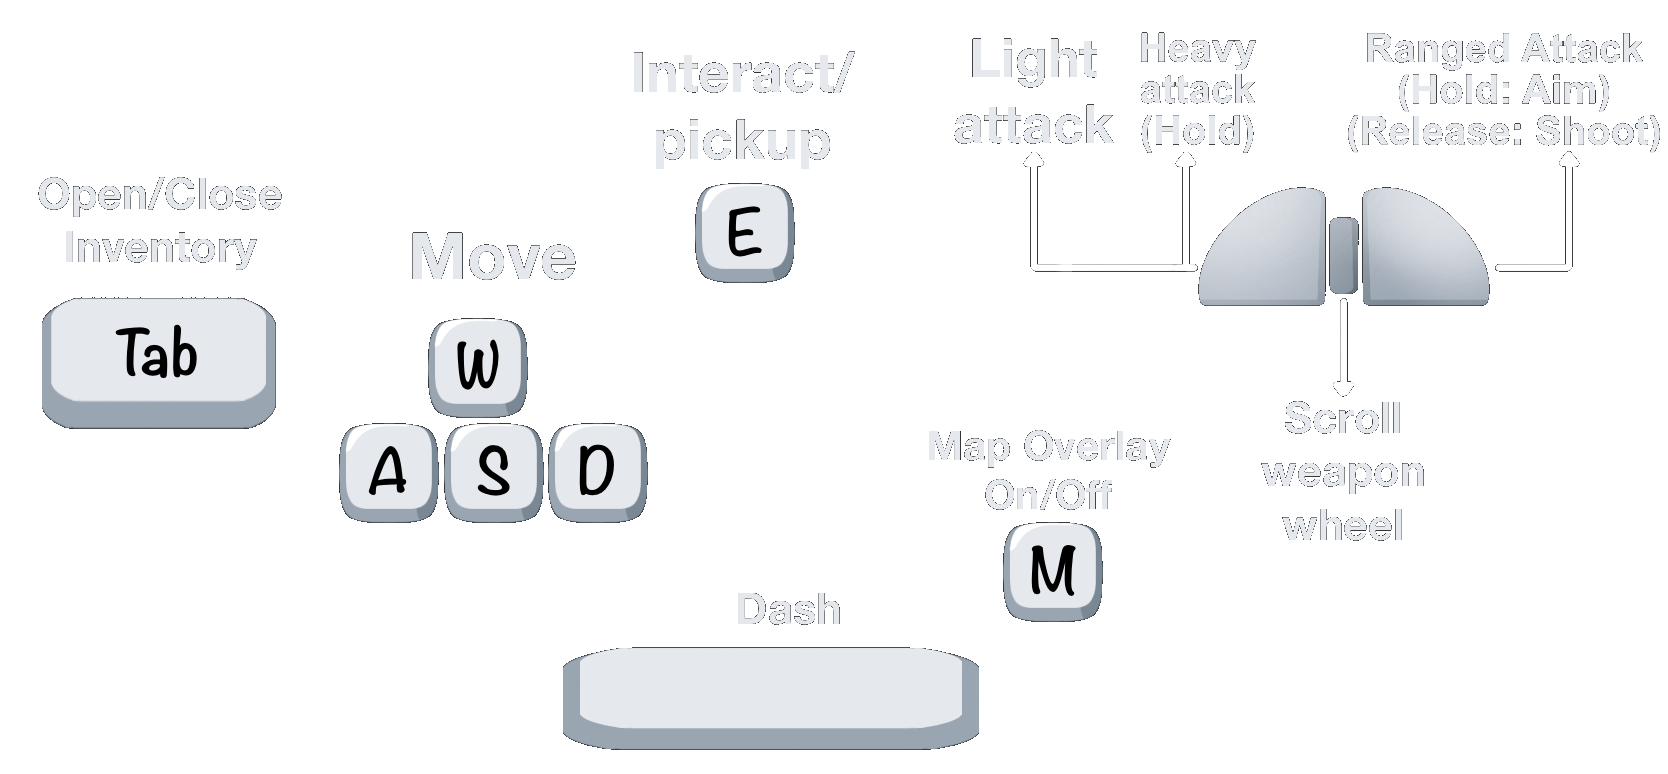
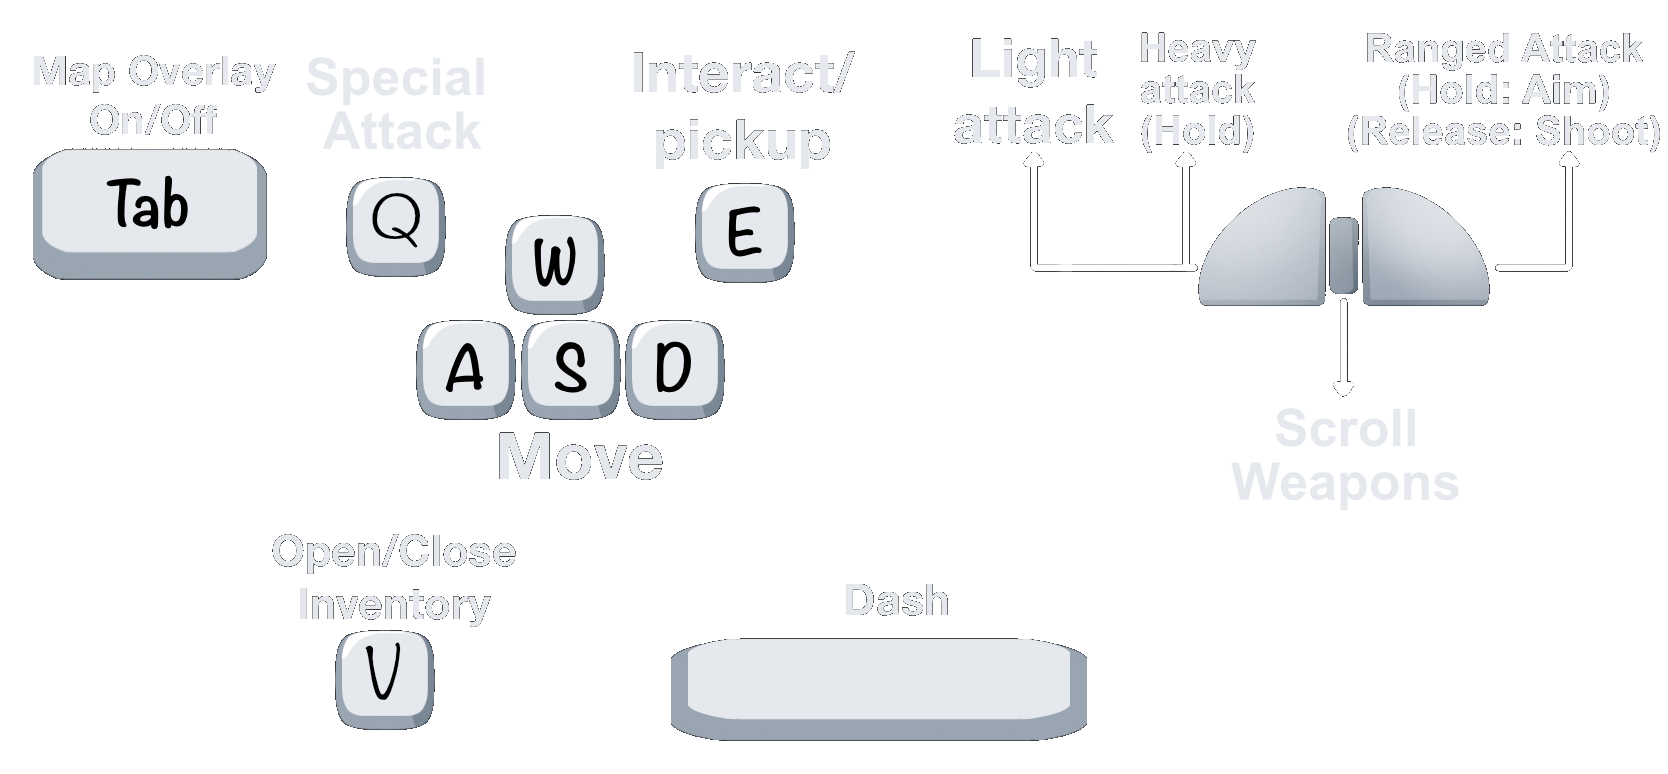
Organizing UI.

Changed region(s): [[0.0, 0.062, 0.4365, 0.9612], [0.3118, 0.5581, 0.717, 0.9922], [0.717, 0.5271, 0.8729, 0.7132]]

diff --git a/LaserTurtles/Assets/Scripts/InputSystem/PlayerInputActions.cs b/LaserTurtles/Assets/Scripts/InputSystem/PlayerInputActions.cs
@@ -313,7 +313,7 @@ public partial class @PlayerInputActions : IInputActionCollection2, IDisposable
                 {
                     ""name"": """",
                     ""id"": ""1c8a3ebb-75f4-4d1c-95ba-28c1681490db"",
-                    ""path"": ""<Keyboard>/m"",
+                    ""path"": ""<Keyboard>/tab"",
                     ""interactions"": """",
                     ""processors"": """",
                     ""groups"": ""Keyboard&Mouse"",
@@ -423,7 +423,7 @@ public partial class @PlayerInputActions : IInputActionCollection2, IDisposable
                 {
                     ""name"": """",
                     ""id"": ""c6fd4942-3558-4777-a5c6-68a8bbfcc2b9"",
-                    ""path"": ""<Keyboard>/tab"",
+                    ""path"": ""<Keyboard>/v"",
                     ""interactions"": """",
                     ""processors"": """",
                     ""groups"": ""Keyboard&Mouse"",
